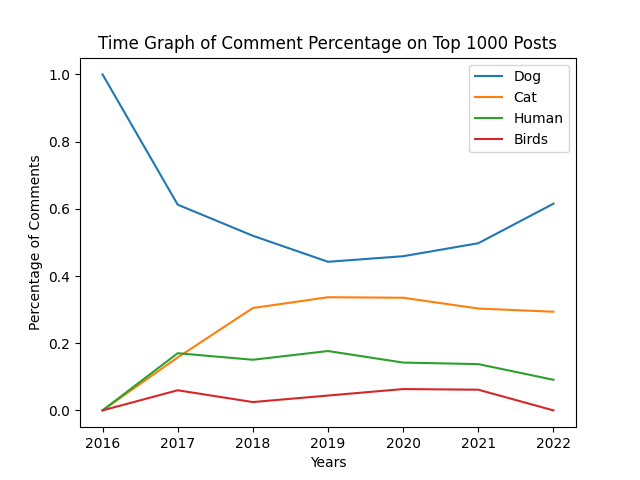
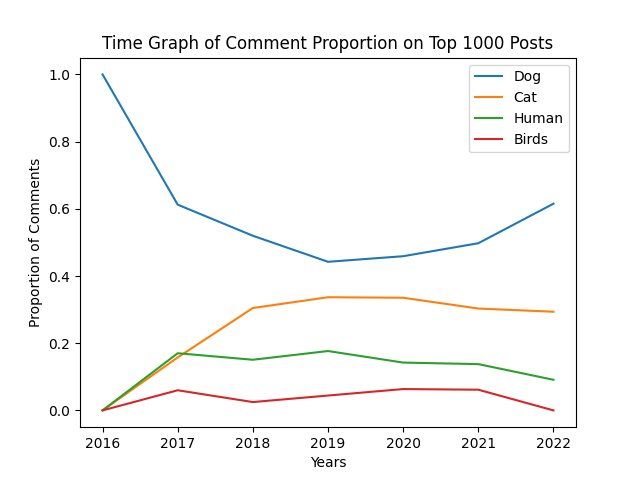
Added minor changes to time_graph titles

Changed region(s): [[0.1562, 0.0625, 0.875, 0.125], [0.0312, 0.3125, 0.0625, 0.6875]]

diff --git a/time_graph.py b/time_graph.py
@@ -83,9 +83,9 @@ percentage_birds_comments = [x/total_comments[index] for \
     index, x in enumerate(birds[2])]
 
 plt.figure()
-plt.title('Time Graph of Upvotes Percentage on Top 1000 Posts')
+plt.title('Time Graph of Upvotes Proportion on Top 1000 Posts')
 plt.xlabel('Year')
-plt.ylabel('Percentage of Upvotes')
+plt.ylabel('Proportion of Upvotes')
 plt.plot(organize_by_time('dog')[0],percentage_dogs_upvotes, label= 'Dog')
 plt.plot(organize_by_time('cat')[0],percentage_cats_upvotes, label= 'Cat')
 plt.plot(organize_by_time('human')[0],percentage_humans_upvotes, label= 'Human')
@@ -94,9 +94,9 @@ plt.legend()
 plt.savefig('visualizations/time_graph_upvotes.png')
 
 plt.figure()
-plt.title('Time Graph of Comment Percentage on Top 1000 Posts')
+plt.title('Time Graph of Comment Proportion on Top 1000 Posts')
 plt.xlabel('Years')
-plt.ylabel('Percentage of Comments')
+plt.ylabel('Proportion of Comments')
 plt.plot(organize_by_time('dog')[0],percentage_dogs_comments, label= 'Dog')
 plt.plot(organize_by_time('cat')[0],percentage_cats_comments, label= 'Cat')
 plt.plot(organize_by_time('human')[0],percentage_humans_comments,\
